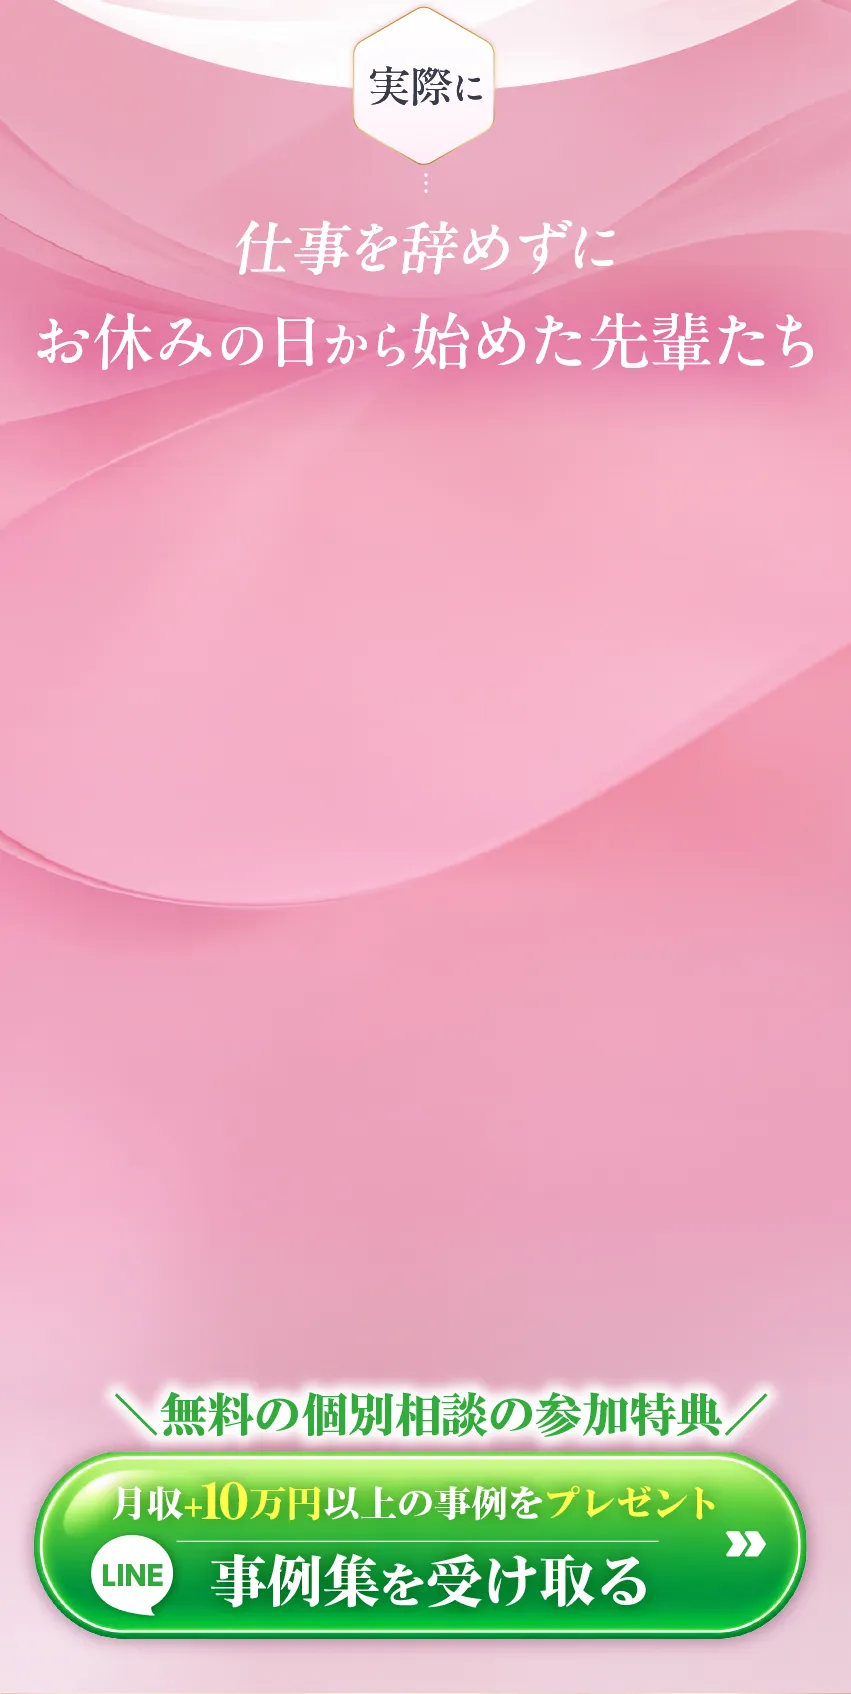
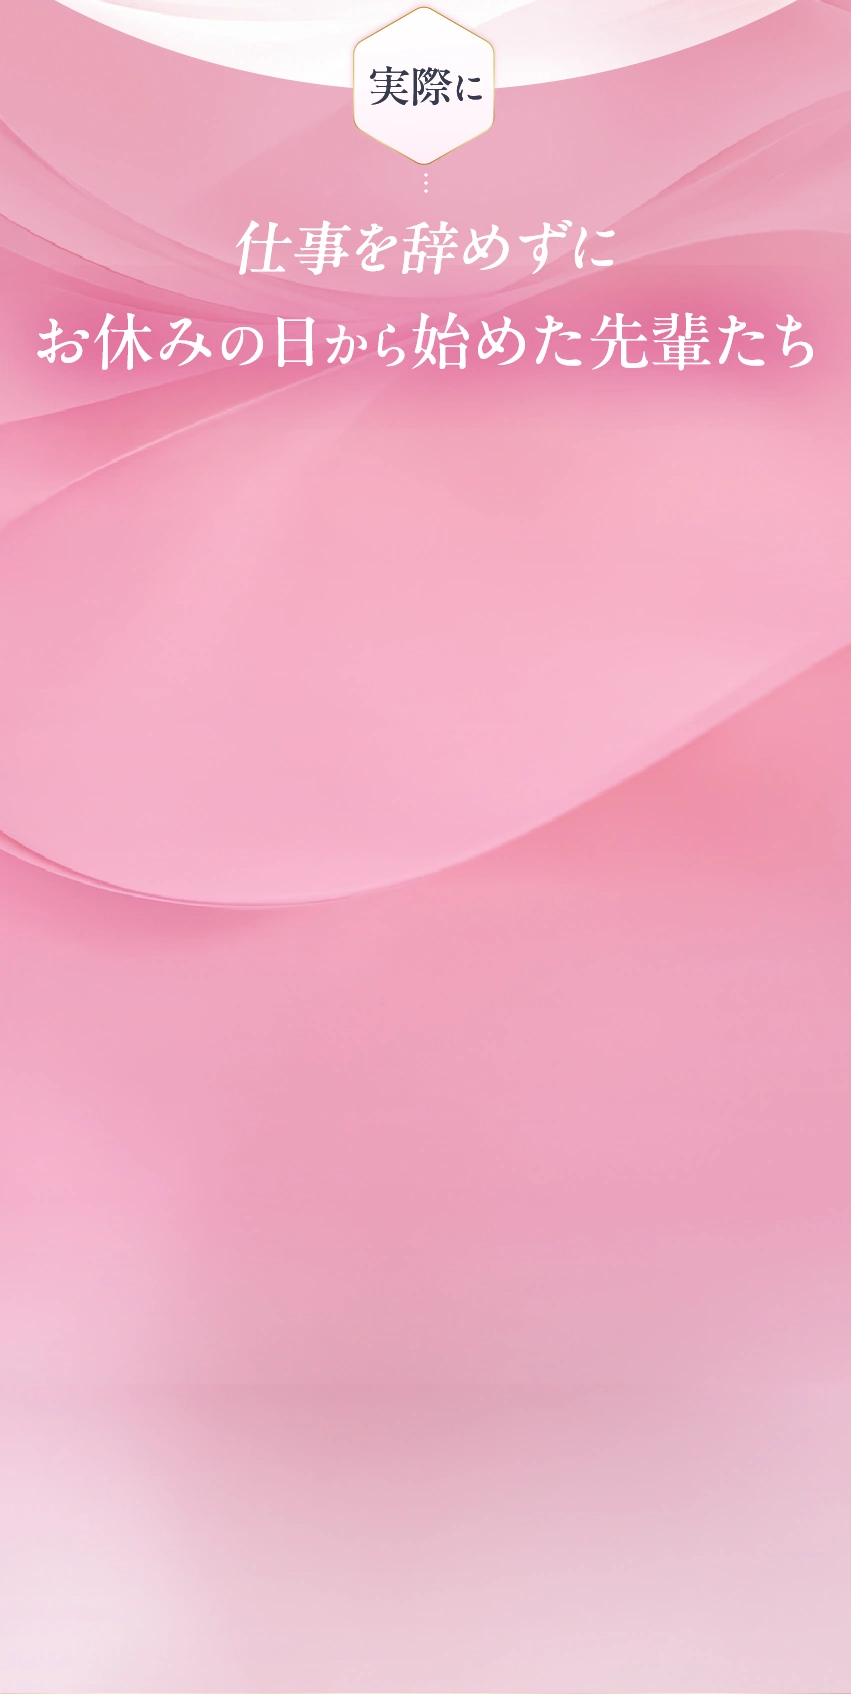
Update testimonial background to remove duplicate CTA

Changed region(s): [[0.0306, 0.7981, 0.9777, 0.9823]]

diff --git a/index.html b/index.html
@@ -30,7 +30,7 @@
 
     <!-- 受講生の声：横スクロール / ボタン操作 -->
     <section class="voice" aria-label="仕事を辞めずに、お休みの日から始めた先輩たち">
-      <img src="img/section-02.webp?v=60adb126cd" width="851" height="1694" loading="lazy" alt="実際に、仕事を辞めずにお休みの日から始めた先輩たち">
+      <img src="img/section-02.webp?v=3550f7c5de" width="851" height="1694" loading="lazy" alt="実際に、仕事を辞めずにお休みの日から始めた先輩たち">
       <ul class="voice-list" id="voice-list" tabindex="0" aria-label="受講生の声。左右にスクロールできます">
         <li><img src="img/voice-s1.webp?v=dc672df695" width="664" height="911" loading="lazy"
             alt="M.Sさん・40代。看護師歴18年、美容未経験。辞める勇気はなかった。だから、休みの日だけ始めました。病院はそのまま、休日の施術で。施術は月約2回、月収プラス8万円。"></li>
